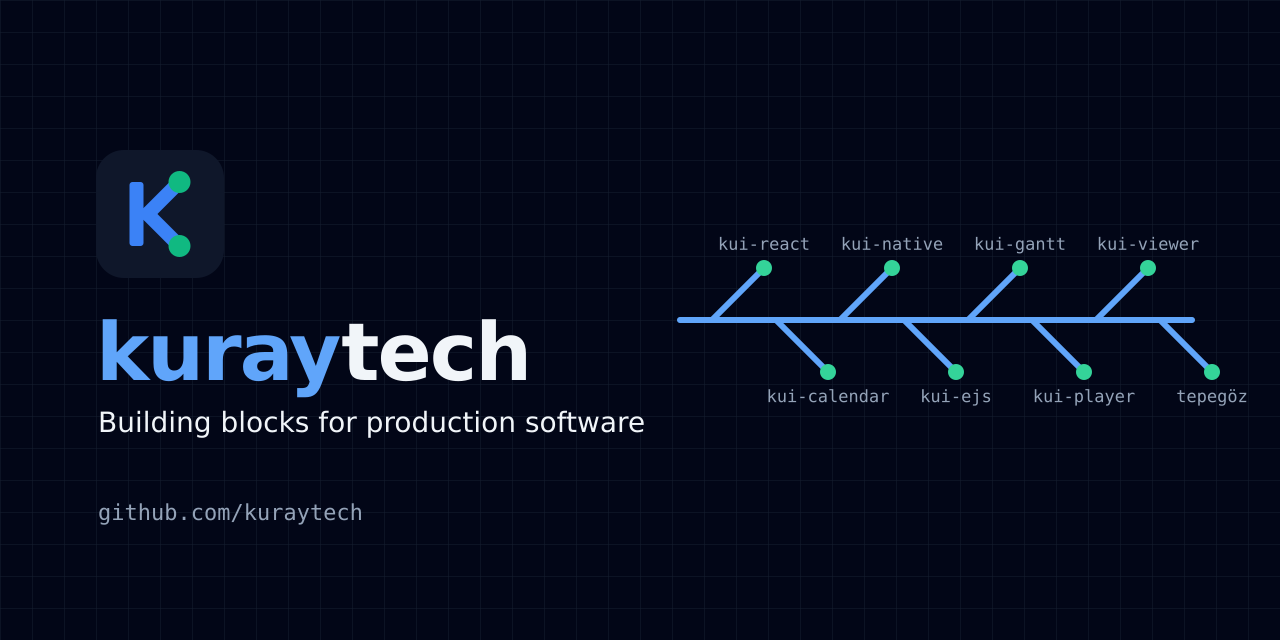
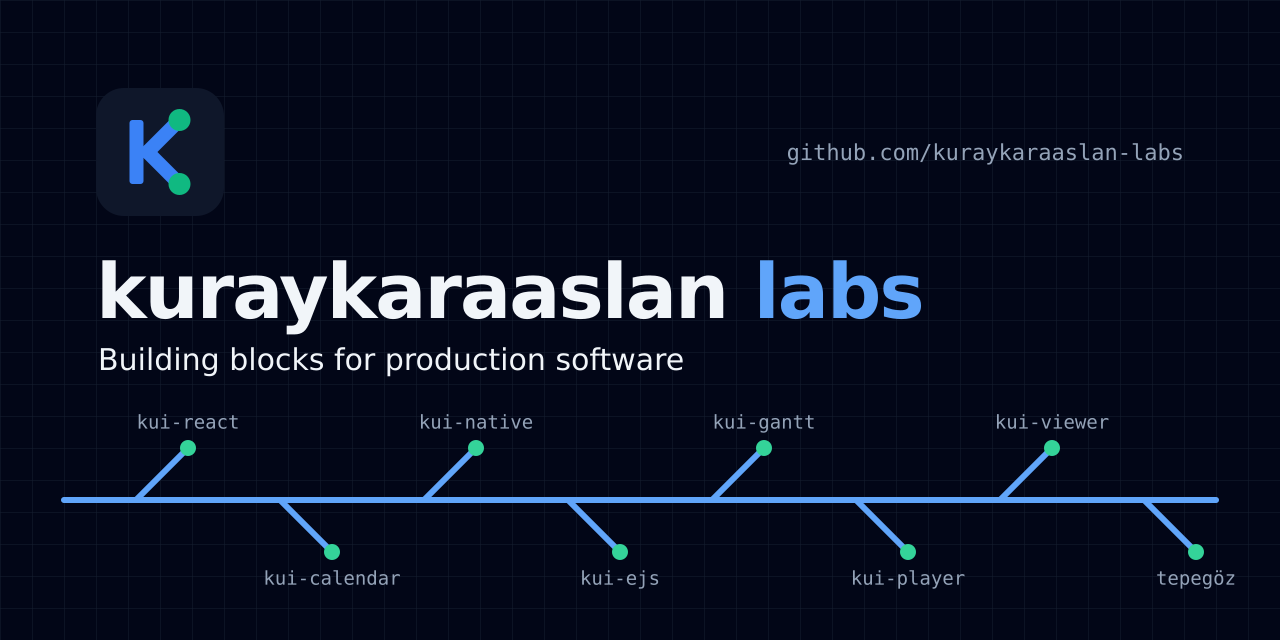
Rebrand to kuraykaraaslan labs
The organization was renamed from kuraytech to kuraykaraaslan-labs.
- Wordmark is now "kuraykaraaslan labs", with "labs" in the trunk blue
- Banner restacked: the longer name takes its own row, the branch graph runs full width beneath it
- Asset URLs, social card handle and docs point at the new organization

diff --git a/profile/README.md b/profile/README.md
@@ -1,9 +1,9 @@
 <picture>
-  <source media="(prefers-color-scheme: dark)" srcset="https://raw.githubusercontent.com/kuraytech/.github/main/brand/banner-dark.svg">
-  <img alt="kuraytech — Building blocks for production software" src="https://raw.githubusercontent.com/kuraytech/.github/main/brand/banner-light.svg" width="100%">
+  <source media="(prefers-color-scheme: dark)" srcset="https://raw.githubusercontent.com/kuraykaraaslan-labs/.github/main/brand/banner-dark.svg">
+  <img alt="kuraykaraaslan labs — Building blocks for production software" src="https://raw.githubusercontent.com/kuraykaraaslan-labs/.github/main/brand/banner-light.svg" width="100%">
 </picture>
 
-**kuraytech** is the product house of [Kuray Karaaslan](https://kuray.dev): component libraries, starters and tools for teams that build serious business software — admin panels, dashboards, SaaS products and internal platforms — and need them to be maintainable after launch, not just demo-ready.
+**kuraykaraaslan labs** is the product house of [Kuray Karaaslan](https://kuray.dev): component libraries, starters and tools for teams that build serious business software — admin panels, dashboards, SaaS products and internal platforms — and need them to be maintainable after launch, not just demo-ready.
 
 Everything here grows from one trunk: a single design system, implemented in three runtimes, and a set of standalone engines built on top of it. Every package has a live demo.
 
@@ -15,9 +15,9 @@ One component library in three runtimes, kept in visual parity. `kui-react` is t
 
 | | Package | What it is | |
 |:-:|---|---|---|
-| <img src="https://raw.githubusercontent.com/kuraytech/.github/main/brand/family/kui-react.svg" width="32" alt=""> | [**kui-react**](https://github.com/kuraykaraaslan/kui-react) | Next.js 16 / React 19 components organised by atomic design, with seventeen full-page industry demos. Copy-paste ready. | [Demo](https://kui-react.kuray.dev) |
-| <img src="https://raw.githubusercontent.com/kuraytech/.github/main/brand/family/kui-ejs.svg" width="32" alt=""> | [**kui-ejs**](https://github.com/kuraykaraaslan/kui-ejs) | The same system, server-rendered with EJS — for Express apps that do not want a client framework. | [Demo](https://kui-ejs.kuray.dev) |
-| <img src="https://raw.githubusercontent.com/kuraytech/.github/main/brand/family/kui-native.svg" width="32" alt=""> | [**kui-native**](https://github.com/kuraykaraaslan/kui-native) | The same system for React Native and Expo. | [Demo](https://kui-native.kuray.dev) |
+| <img src="https://raw.githubusercontent.com/kuraykaraaslan-labs/.github/main/brand/family/kui-react.svg" width="32" alt=""> | [**kui-react**](https://github.com/kuraykaraaslan/kui-react) | Next.js 16 / React 19 components organised by atomic design, with seventeen full-page industry demos. Copy-paste ready. | [Demo](https://kui-react.kuray.dev) |
+| <img src="https://raw.githubusercontent.com/kuraykaraaslan-labs/.github/main/brand/family/kui-ejs.svg" width="32" alt=""> | [**kui-ejs**](https://github.com/kuraykaraaslan/kui-ejs) | The same system, server-rendered with EJS — for Express apps that do not want a client framework. | [Demo](https://kui-ejs.kuray.dev) |
+| <img src="https://raw.githubusercontent.com/kuraykaraaslan-labs/.github/main/brand/family/kui-native.svg" width="32" alt=""> | [**kui-native**](https://github.com/kuraykaraaslan/kui-native) | The same system for React Native and Expo. | [Demo](https://kui-native.kuray.dev) |
 
 ## Standalone engines
 
@@ -25,10 +25,10 @@ Each ships a framework-agnostic TypeScript core plus a batteries-included React 
 
 | | Package | What it is | |
 |:-:|---|---|---|
-| <img src="https://raw.githubusercontent.com/kuraytech/.github/main/brand/family/kui-calendar.svg" width="32" alt=""> | [**kui-calendar**](https://github.com/kuraykaraaslan/kui-calendar) | Calendar and scheduler — `CalendarEngine`. | [Demo](https://kui-calendar.kuray.dev) |
-| <img src="https://raw.githubusercontent.com/kuraytech/.github/main/brand/family/kui-gantt.svg" width="32" alt=""> | [**kui-gantt**](https://github.com/kuraykaraaslan/kui-gantt) | Gantt chart and project scheduler with critical path — `GanttEngine`. | [Demo](https://kui-gantt.kuray.dev) |
-| <img src="https://raw.githubusercontent.com/kuraytech/.github/main/brand/family/kui-player.svg" width="32" alt=""> | [**kui-player**](https://github.com/kuraykaraaslan/kui-player) | HTML5 video player around a native `<video>` element — `VideoPlayerEngine`. | [Demo](https://kui-player.kuray.dev) |
-| <img src="https://raw.githubusercontent.com/kuraytech/.github/main/brand/family/kui-viewer.svg" width="32" alt=""> | **kui-viewer** | Browser-based IFC / BIM 3D viewer on Three.js and web-ifc. | [Demo](https://kui-viewer.kuray.dev) |
+| <img src="https://raw.githubusercontent.com/kuraykaraaslan-labs/.github/main/brand/family/kui-calendar.svg" width="32" alt=""> | [**kui-calendar**](https://github.com/kuraykaraaslan/kui-calendar) | Calendar and scheduler — `CalendarEngine`. | [Demo](https://kui-calendar.kuray.dev) |
+| <img src="https://raw.githubusercontent.com/kuraykaraaslan-labs/.github/main/brand/family/kui-gantt.svg" width="32" alt=""> | [**kui-gantt**](https://github.com/kuraykaraaslan/kui-gantt) | Gantt chart and project scheduler with critical path — `GanttEngine`. | [Demo](https://kui-gantt.kuray.dev) |
+| <img src="https://raw.githubusercontent.com/kuraykaraaslan-labs/.github/main/brand/family/kui-player.svg" width="32" alt=""> | [**kui-player**](https://github.com/kuraykaraaslan/kui-player) | HTML5 video player around a native `<video>` element — `VideoPlayerEngine`. | [Demo](https://kui-player.kuray.dev) |
+| <img src="https://raw.githubusercontent.com/kuraykaraaslan-labs/.github/main/brand/family/kui-viewer.svg" width="32" alt=""> | **kui-viewer** | Browser-based IFC / BIM 3D viewer on Three.js and web-ifc. | [Demo](https://kui-viewer.kuray.dev) |
 
 ## Starters
 
@@ -47,10 +47,10 @@ Production foundations that pair a KUI kit with a backend, so a new project star
 - **Logic outside the framework.** Engines are plain TypeScript; React is a subpath, not a dependency of the core.
 - **One design, three runtimes.** React, EJS and React Native implementations are held to a written parity contract.
 - **Proof over claims.** Every library has a public, working demo you can try before reading a line of code.
-- **Generated, not hand-drawn.** Even this page's logo is built from [code](https://github.com/kuraytech/.github/tree/main/brand) and guarded by tests.
+- **Generated, not hand-drawn.** Even this page's logo is built from [code](https://github.com/kuraykaraaslan-labs/.github/tree/main/brand) and guarded by tests.
 
 ## Work together
 
-kuraytech is a one-person studio. If your team needs a production web platform, admin system or SaaS MVP built on these foundations — scoped, deployed and handed over with documentation — start at [kuray.dev](https://kuray.dev).
+kuraykaraaslan labs is a one-person studio. If your team needs a production web platform, admin system or SaaS MVP built on these foundations — scoped, deployed and handed over with documentation — start at [kuray.dev](https://kuray.dev).
 
-<sub><img src="https://raw.githubusercontent.com/kuraytech/.github/main/brand/mark.svg" width="14" alt=""> &nbsp;kuraytech — building blocks for production software</sub>
+<sub><img src="https://raw.githubusercontent.com/kuraykaraaslan-labs/.github/main/brand/mark.svg" width="14" alt=""> &nbsp;kuraykaraaslan labs — building blocks for production software</sub>

diff --git a/brand/README.md b/brand/README.md
@@ -1,8 +1,8 @@
-# kuraytech — Brand identity
+# kuraykaraaslan labs — Brand identity
 
-<img src="mark.svg" width="96" alt="kuraytech mark">
+<img src="mark.svg" width="96" alt="kuraykaraaslan labs mark">
 
-kuraytech is the house every owned product ships from. Its identity is built
+kuraykaraaslan labs is the house every owned product ships from. Its identity is built
 so the house and its products read as one hand without pretending to be one
 product.
 
@@ -38,7 +38,7 @@ The house construction shared by every owned product (fixed in
 | Stroke | 7 (10.9% of the grid), round caps |
 | Tile | rounded square, radius 14 (22%) |
 
-**The kuraytech variant:** both arms end in a filled **node**. One trunk, a
+**The labs variant:** both arms end in a filled **node**. One trunk, a
 fork, and every branch ends in something that shipped. The kui-* packages use
 plain round caps instead, which is how the house mark and a package mark are
 told apart at a glance.
@@ -65,8 +65,10 @@ Exactly two colours in the mark. A third colour, or a gradient, is never added.
 - **Mono:** Geist Mono for labels and product names, falling back to
   `ui-monospace`.
 - The wordmark is lowercase, tight tracking, split at the semantic boundary:
-  **kuray** in trunk blue (the name every product domain carries,
-  `*.kuray.dev`), **tech** in the foreground colour.
+  **kuraykaraaslan** in the foreground colour (the person), **labs** in trunk
+  blue (what makes this the house rather than the personal account,
+  `github.com/kuraykaraaslan`). Written in prose as "kuraykaraaslan labs";
+  the handle `kuraykaraaslan-labs` appears only in URLs.
 
 GitHub renders SVGs as `<img>`, which cannot load web fonts, so every lockup
 width is derived from the system fallback's measured advance and never

diff --git a/README.md b/README.md
@@ -1,8 +1,8 @@
-# kuraytech/.github
+# kuraykaraaslan-labs/.github
 
-The organization profile and brand assets for **kuraytech**.
+The organization profile and brand assets for **kuraykaraaslan labs**.
 
-- [`profile/README.md`](profile/README.md) — the page shown at [github.com/kuraytech](https://github.com/kuraytech)
+- [`profile/README.md`](profile/README.md) — the page shown at [github.com/kuraykaraaslan-labs](https://github.com/kuraykaraaslan-labs)
 - [`brand/`](brand) — logo, palette, type and usage rules, all generated from code
 
 ```bash
